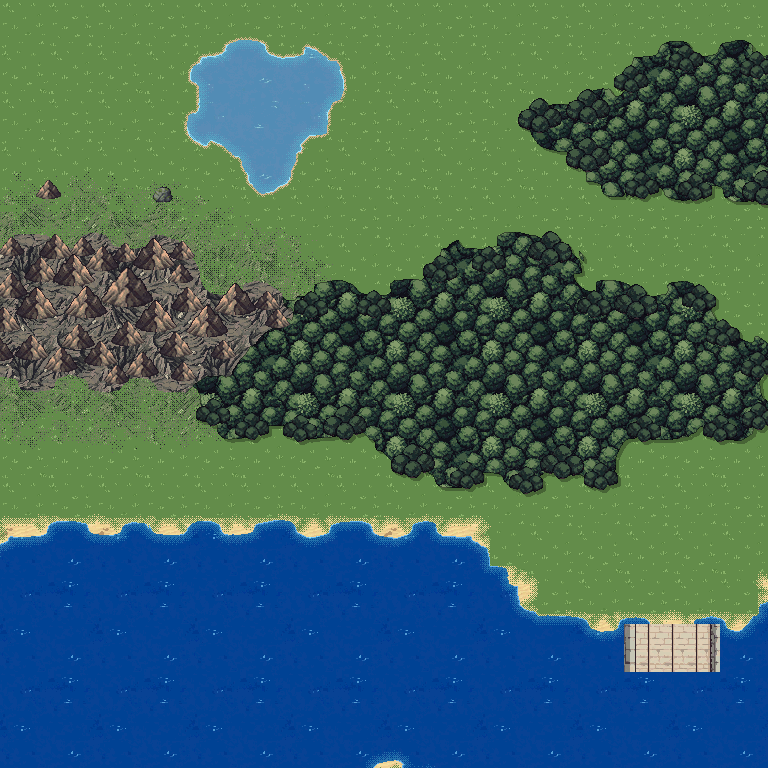
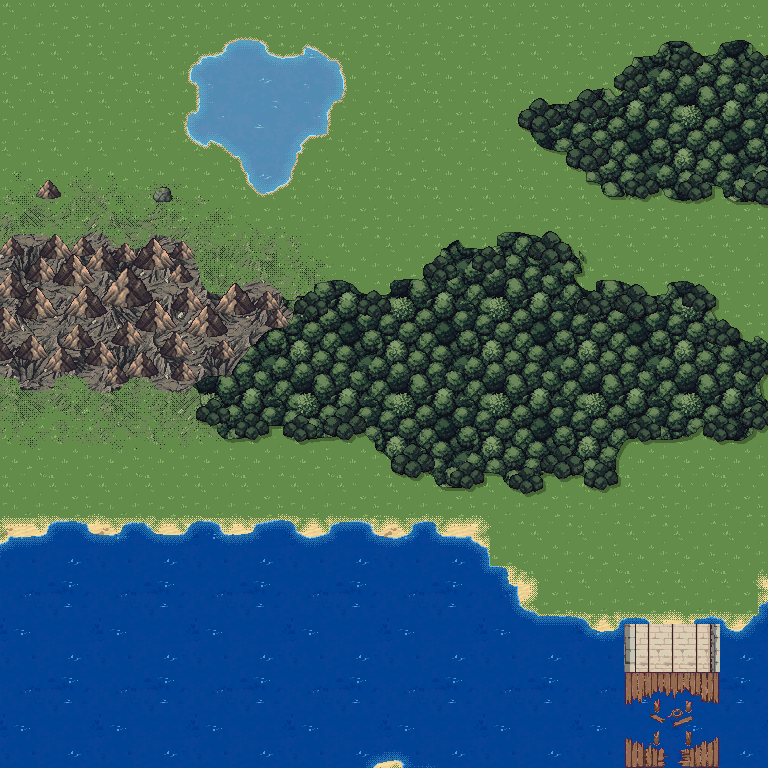
T6h art wiring: OW-9 broken-bridge debris (overworld/kit_grand bridge_gap, block false, on_water; gap stays water, BRIDGE_BUILT unset), OW-8 keeps temple_icon (fallback); CA-1 top-down stairwell (castle/kit_stairs_lib) on 1F, 2F and the tower; CA-7 gold heap (36,22), crown cushion (38,22), 2F war-ma

Changed region(s): [[0.8125, 0.875, 0.9375, 1.0]]

diff --git a/tests/data/castleLayout.test.ts b/tests/data/castleLayout.test.ts
@@ -129,15 +129,42 @@ describe('the castle rooms have a purpose (CA-7)', () => {
     expect(openRows.length).toBeGreaterThanOrEqual(2);
   });
 
-  it('the 2F guard room has armour stands, a weapon rack, a table and a guard', () => {
+  it('the 2F guard room has armour stands, a weapon rack, the war-map table and a guard', () => {
     const objs = source('cornelia-castle-2f').objects ?? [];
     const count = (part: string) => objs.filter((o) => (o.parts ?? []).flat().includes(part)
       && inRect(o, 33, 4, 41, 14)).length;
     expect(count('armor_stand')).toBeGreaterThanOrEqual(2);
     expect(count('weapon_rack')).toBeGreaterThanOrEqual(1);
-    expect(count('table')).toBeGreaterThanOrEqual(1);
+    expect(count('map_table_l')).toBe(1);                                // CA-7 (T6h): the war-map table
+    expect(objs.find((o) => (o.parts ?? []).flat().includes('map_table_l'))?.parts).toEqual([['map_table_l', 'map_table_r']]);
+    expect(count('table')).toBe(0);
     const guard = compiled('cornelia-castle-2f').npcs!.find((n) => n.sprite === 'guard' && inRect(n, 33, 6, 41, 14));
     expect(guard?.dialog.flatMap((d) => (typeof d === 'string' ? [d] : d.text)).join(' ')).toMatch(/tower/);
+  });
+
+  it('the treasury has the gold heap at (36, 22) and the crown on its cushion at (38, 22) (T6h)', () => {
+    const objs = source('cornelia-castle').objects ?? [];
+    const at = (part: string) => objs.filter((o) => (o.parts ?? []).flat().includes(part)).map((o) => [o.x, o.y]);
+    expect(at('gold_heap')).toEqual([[36, 22]]);
+    expect(at('crown_cushion')).toEqual([[38, 22]]);
+    expect(at('globe')).toEqual([[38, 12]]);                              // in the library
+    const col = new CollisionMap(f1);
+    for (const [x, y] of [[36, 22], [38, 22]]) expect(col.isWalkable(x, y, walk), `(${x}, ${y}) is solid`).toBe(false);
+    // the chests in front stay reachable from the treasury floor
+    for (const c of f1.npcs!.filter((n) => n.chestItem && inRect(n, 32, 19, 41, 30))) {
+      expect([[0, 1], [1, 0], [-1, 0]].some(([dx, dy]) => col.isWalkable(c.x + dx, c.y + dy, walk)), c.id).toBe(true);
+    }
+  });
+
+  it('every CA-7 prop placed in the castle is cut from the approved castle/stairs_lib sheet (no placeholder)', () => {
+    const approved = JSON.parse(readFileSync(join(root, 'assets-src/gen/approved/castle/stairs_lib.json'), 'utf-8')) as
+      { cells: Array<Array<string | null>> };
+    const cut = new Set(approved.cells.flat().filter((p): p is string => p !== null));
+    const props = ['map_table_l', 'map_table_r', 'gold_heap', 'crown_cushion', 'lectern', 'globe'];
+    for (const p of props) expect(cut.has(p), p).toBe(true);
+    const placed = FLOORS.flatMap((id) => (source(id).objects ?? []).flatMap((o) => (o.parts ?? []).flat()))
+      .filter((p): p is string => p !== null && props.includes(p));
+    expect(new Set(placed)).toEqual(new Set(props));
   });
 
   it('1F and 2F no longer share one carpet layout: the throne room runner is 4 wide, with a medallion', () => {

diff --git a/tests/data/overworldLayout.test.ts b/tests/data/overworldLayout.test.ts
@@ -135,6 +135,30 @@ describe('overworld layout (T3c)', () => {
     expect(reach(start, gateCells, rock).has(north)).toBe(true);
   });
 
+  it('OW-9: the broken-bridge debris lies over the gap as art only; the four gap cells stay water', () => {
+    const debris = source.objects.filter((o) => (o.parts ?? []).flat().some((p) => p?.startsWith('bridge_gap_')));
+    expect(debris.length).toBe(1);
+    const d = debris[0] as typeof debris[0] & { block?: boolean; on_water?: boolean };
+    expect(d.parts).toEqual([['bridge_gap_0_0', 'bridge_gap_0_1'], ['bridge_gap_1_0', 'bridge_gap_1_1']]);
+    expect(d.block).toBe(false);
+    expect(d.on_water).toBe(true);
+    const footprint = [0, 1].flatMap((j) => [0, 1].map((i): Cell => [d.x + i, d.y + j]));
+    expect(footprint.map(([x, y]) => key(x, y)).sort()).toEqual(gap.map(([x, y]) => key(x, y)).sort());
+    for (const [x, y] of footprint) {
+      expect(terrain(x, y), `(${x}, ${y}) is water`).toBe(WATER);
+      expect(col.isWalkable(x, y, walking)).toBe(false);
+    }
+    // the parts are cut from the approved overworld/kit_grand sheet; temple_grand fell back (OW-8 keeps temple_icon)
+    const grand = JSON.parse(readFileSync(join(root, 'assets-src/gen/approved/overworld/grand.json'), 'utf-8')) as
+      { cells: Array<Array<string | null>>; metrics: { skipped: string[] } };
+    for (const p of d.parts!.flat()) expect(grand.cells.flat()).toContain(p);
+    expect(grand.metrics.skipped).toContain('temple_grand');
+    const temple = source.objects.find((o) => o.type === 'prefab') as { prefab?: string } | undefined;
+    expect(temple?.prefab).toBe('temple_icon');
+    // the gates are unchanged: both south-stub cells still need BRIDGE_BUILT
+    expect(gates.map((g) => g.requiredFlag)).toEqual(['BRIDGE_BUILT', 'BRIDGE_BUILT']);
+  });
+
   it('OW-14: no walkable cell on the map edge', () => {
     for (let x = 0; x < map.width; x++) {
       for (const y of [0, map.height - 1]) expect(col.isWalkable(x, y, walking), `(${x},${y})`).toBe(false);
@@ -313,6 +337,12 @@ describe('overworld battle backgrounds (BA-12)', () => {
     }
     const zoneIds = new Set((map.encounterZones ?? []).map((z) => z.id));
     for (const id of Object.keys(bg.zones ?? {})) expect(zoneIds.has(id), `zone ${id}`).toBe(true);
+  });
+
+  it('the temple approach fights in the dark forest and the east pocket in the ruined forest (T6h)', () => {
+    expect(bg.zones?.temple_approach?.default).toBe('dark_forest');
+    expect(bg.zones?.east_pocket?.default).toBe('ruined_forest');
+    for (const z of ['temple_approach', 'east_pocket']) expect(bg.zones?.[z]?.terrain?.desert, z).toBe('shoreline');
   });
 
   it('beach sand compiles to Desert, and Desert battles use the shoreline background', () => {

diff --git a/tests/data/castleStairs.test.ts b/tests/data/castleStairs.test.ts
@@ -17,7 +17,8 @@ const castleSources = readdirSync(join(root, 'assets-src/maps'))
   .filter((f) => f.startsWith('cornelia-castle') && f.endsWith('.yaml'))
   .map((f) => parse(readFileSync(join(root, 'assets-src/maps', f), 'utf-8')) as Source);
 const compiled = (id: string) => parse(readFileSync(join(root, 'assets/maps/ai', `${id}.yaml`), 'utf-8')) as MapData;
-const isStairwell = (o: Deco) => o.type === 'deco' && (o.parts ?? []).flat().some((p) => p?.startsWith('stairs_down_'));
+const STAIR_PARTS = /^(stairs_down|stairwell)_\d_\d$/;
+const isStairwell = (o: Deco) => o.type === 'deco' && (o.parts ?? []).flat().some((p) => STAIR_PARTS.test(p ?? ''));
 const stairwells = castleSources.flatMap((s) => (s.objects ?? []).filter(isStairwell).map((o) => ({ id: s.id, o })));
 const walk = new WalkingMode();
 
@@ -50,6 +51,16 @@ describe('castle stairwells (CA-1)', () => {
       expect(col.isWalkable(o.x, o.y + 1, walk) || col.isWalkable(o.x + 1, o.y + 1, walk)).toBe(false);
       const above = Object.values(map.entrances ?? {}).some(([x, y]) => y === o.y - 1 && (x === o.x || x === o.x + 1));
       expect(above, `${id}: an entrance right above the stairwell`).toBe(true);
+    }
+  });
+
+  it('every stairwell uses the top-down `stairwell_*` art (T6h), not the oblique `stairs_down_*`', () => {
+    const approved = JSON.parse(readFileSync(join(root, 'assets-src/gen/approved/castle/stairs_lib.json'), 'utf-8')) as
+      { cells: Array<Array<string | null>> };
+    const cut = new Set(approved.cells.flat());
+    for (const { id, o } of stairwells) {
+      expect(o.parts, id).toEqual([['stairwell_0_0', 'stairwell_0_1'], ['stairwell_1_0', 'stairwell_1_1']]);
+      for (const p of o.parts!.flat()) expect(cut.has(p), `${id}: ${p} is cut from castle/stairs_lib`).toBe(true);
     }
   });
 });

diff --git a/tests/data/assetCoverage.test.ts b/tests/data/assetCoverage.test.ts
@@ -119,6 +119,14 @@ describe('asset coverage (run `npm run assets` after adding content)', () => {
       }
     });
 
+    it.runIf(present)('the T6 townsfolk (vendor_f, farmer, burgher) are on the cornelia map and drawn from the 2x atlas', () => {
+      const cornelia = (readYaml<{ npcs?: Array<{ sprite: string }> }>('maps/ai/cornelia.yaml').npcs ?? []).map((n) => n.sprite);
+      for (const sp of ['vendor_f', 'farmer', 'burgher']) {
+        expect(cornelia, sp).toContain(sp);
+        expect(meta!.sheets[sp], `${sp} in characters-ai.json`).toBeDefined();
+      }
+    });
+
     it.runIf(present)('only lists known classes or NPC sprites, every block inside the image', () => {
       // NPC sprite names are the keys of the legacy character atlas that are not classes
       const compiledNpcSprites = readdirSync(join(assets, 'maps/ai'))
@@ -206,6 +214,10 @@ describe('asset coverage (run `npm run assets` after adding content)', () => {
 
     it('the act-1 temple and zone ids are referenced', () => {
       expect(referenced).toEqual(expect.arrayContaining(['temple', 'dark_forest', 'ruined_forest', 'shoreline']));
+    });
+
+    it('the overworld zone backdrops (T6h) are referenced by a map table, not only listed here', () => {
+      expect(mapIds).toEqual(expect.arrayContaining(['dark_forest', 'ruined_forest', 'shoreline']));
     });
 
     it.each(referenced)('background "%s" is a staged id with a 1920x1080 webp', (id) => {

diff --git a/assets-src/tools/layouts/overworld.py b/assets-src/tools/layouts/overworld.py
@@ -23,15 +23,15 @@ import numpy as np
 
 sys.path.insert(0, str(Path(__file__).resolve().parent))
 from common import Grid, write_map  # noqa: E402
-from overworld_consts import (ARRIVE, BEACHES, BOULDERS, BRIDGE_FOOT, BX, CX, CY, E_WARP, FOREST_ADD, FOREST_CUT,  # noqa: E402
-                              FOREST_ZONES, GULF, H, HEADER, JETTY, LAND, MOUNTAIN_BLOBS, N_APPROACH, N_STUB, N_WARP,
+from overworld_consts import (ARRIVE, BEACHES, BOULDERS, BRIDGE_FOOT, BROKEN_BRIDGE, BX, CX, CY, E_WARP,  # noqa: E402
+                              FOREST_ADD, FOREST_CUT, FOREST_ZONES, GULF, H, HEADER, JETTY, LAND, MOUNTAIN_BLOBS, N_APPROACH, N_STUB, N_WARP,
                               NORTH_LAKE, NORTH_SHORE, PONDS, RIVER, ROADS, RX, RY, S_STUB, S_WARP, SEED, SHORE_LAND,
                               SHORE_SEA, SOUND, SOUTH_BAY, SPINE, SPUR, STREAM, TARN, TEMPLE_DOOR, TEMPLE_GRASS,
                               TEMPLE_ROCK, TOMB, TOMB_END, TOMB_OBJECTS, TOMB_ROCK, TX, TY, UNDER_TOWN, W, W_WARP)
 from overworld_grid import (bfs, clear_disc, clear_rect, extend_to_sea, fill_unreachable, near, tidy_blobs,  # noqa: E402
                             tidy_land, walk_grid)
 from overworld_noise import blob, fbm, polyline_distance, signed_distance  # noqa: E402
-from overworld_zones import FIELDS, encounter_zones  # noqa: E402
+from overworld_zones import FIELDS, ZONE_BACKDROPS, encounter_zones  # noqa: E402
 
 
 def build() -> tuple[Grid, list[str]]:
@@ -180,6 +180,7 @@ def objects() -> list[dict]:
         {"type": "prefab", "prefab": "temple_icon", "name": "temple", "x": TX, "y": TY, "w": 2, "h": 2, "door": 1,
          "ridge_rows": 0, "collide": "alpha", "enter": {"map": "temple-of-fiends", "entrance": "entry"}},
         *(dict(o) for o in TOMB_OBJECTS),          # Erdrick's tomb
+        *(dict(o) for o in BROKEN_BRIDGE),         # OW-9: debris in the north bridge's gap (art only)
     ]
     for x, y in BOULDERS:          # a few boulders on open grass, never on a road
         objs.append({"type": "deco", "parts": [["boulder"]], "x": x, "y": y, "collide": "alpha"})
@@ -223,7 +224,8 @@ def main() -> None:
         "encounterZones": encounter_zones(g),
         # BA-12: sand compiles to TerrainType.Desert, so the beaches are keyed `desert` (keys are TerrainType names)
         "battleBackgrounds": {"default": "grassland", "terrain": {"forest": "forest", "desert": "shoreline",
-                                                                  "swamp": "swamp", "water": "ocean", "river": "river"}},
+                                                                  "swamp": "swamp", "water": "ocean", "river": "river"},
+                              "zones": ZONE_BACKDROPS},
         # OW-10 stays open: the ship waits off the jetty, the canoe on the east river
         "vehicles": [{"type": "ship", "x": JETTY[-1][0], "y": JETTY[-1][1] + 1, "requiredFlag": "BIKKE_DEFEATED"},
                      {"type": "canoe", "x": canoe[0], "y": canoe[1], "requiredFlag": "EARTH_CAVE_COMPLETE"}],

diff --git a/assets-src/tools/layouts/castle.py b/assets-src/tools/layouts/castle.py
@@ -74,7 +74,7 @@ for (x, y) in [(14, 18), (29, 18)]:
 for x in (12, 13, 15, 16, 17, 26, 27, 28, 30, 31):
     f1.deco([["bookshelf_top"], ["bookshelf_bottom"]], x, 2, on_wall=True)
 for x in (19, 24):
-    f1.deco([["lectern"]], x, 3)             # castle/kit_stairs_lib (a kit.py placeholder until it is approved)
+    f1.deco([["lectern"]], x, 3)             # castle/kit_stairs_lib
 for x in (21, 22):
     f1.deco([["stone_bench"]], x, 3)
 for x in (14, 18, 25, 29):
@@ -112,7 +112,7 @@ for (x, y) in [(35, 9), (38, 9), (35, 12)]:
     f1.deco([["desk"]], x, y)
 f1.deco([["orb_white"]], 41, 14)
 f1.deco([["plant"]], 32, 14)
-f1.deco([["globe"]], 38, 12)                 # castle/kit_stairs_lib (placeholder until approved)
+f1.deco([["globe"]], 38, 12)                 # castle/kit_stairs_lib
 # treasury, with the stair down to the cellar
 f1.wall([["banner"]], 34, 17)
 f1.wall([["torch"]], 39, 17)
@@ -125,7 +125,9 @@ f1.wall([["weapon_rack"]], 35, 17)          # not 37: that cell is in the librar
 f1.wall([["weapon_rack"]], 40, 17)
 for (x, y) in [(32, 21), (32, 22)]:          # CA-4: clear of the doorway from the hall at (32, 25-26)
     f1.objects.append({"type": "barrel", "x": x, "y": y})
-# CA-7: (36, 22) and (38, 22) are kept free for the gold heap and the crown (T6h, castle/kit_stairs_lib)
+# CA-7: the gold heap and the crown on its cushion, between the two chests (castle/kit_stairs_lib)
+f1.deco([["gold_heap"]], 36, 22)
+f1.deco([["crown_cushion"]], 38, 22)
 
 f1.npcs += [
     {"id": "hall_guard_w", "sprite": "guard", "x": 19, "y": 30, "dialog": ["Welcome to Cornelia Castle.",
@@ -227,7 +229,7 @@ for x in (2, 3, 4):
 f2.deco([["desk"]], 5, 22)
 f2.wall([["tapestry"]], 5, 16)
 f2.deco([["armor_stand"]], 10, 25)
-# the guard room, with the tower stair (CA-7); the table becomes the war-map table in T6h
+# the guard room, with the tower stair and the war-map table (CA-7)
 f2.stairs_up(37, 4, "cornelia-castle-tower", "stairs")
 f2.wall([["banner"]], 35, 4)
 f2.wall([["banner"]], 40, 4)
@@ -237,8 +239,7 @@ f2.statue(34, 6)
 f2.statue(41, 6)
 for y in (8, 10, 12):
     f2.deco([["armor_stand"]], 41, y)
-for x in (37, 38):
-    f2.deco([["table"]], x, 12)
+f2.deco([["map_table_l", "map_table_r"]], 37, 12)   # castle/kit_stairs_lib
 # chapel
 f2.deco([["orb_white"]], 36, 18)
 f2.deco([["orb_white"]], 38, 18)

diff --git a/assets-src/tools/layouts/overworld_consts.py b/assets-src/tools/layouts/overworld_consts.py
@@ -107,6 +107,13 @@ TOMB_OBJECTS = [
     {"type": "flowers", "x": TOMB[0] + 2, "y": TOMB[1] + 1},
 ]
 
+# OW-9: the snapped ends, pilings and loose planks of the north bridge (overworld/kit_grand `bridge_gap`), drawn over
+# the two open-water gap rows. Art only: the cells stay ocean in collision and BRIDGE_BUILT stays unset in act 1.
+# FIX_PLAN T6 note: the future bridge cutscene needs a built variant of the span (the gap cells become bridge in
+# collision and art, e.g. a flag-gated map variant), and that variant must drop BROKEN_BRIDGE.
+BROKEN_BRIDGE = [{"type": "deco", "parts": [["bridge_gap_0_0", "bridge_gap_0_1"], ["bridge_gap_1_0", "bridge_gap_1_1"]],
+                  "name": "broken_bridge", "x": BX, "y": N_STUB + 1, "block": False, "on_water": True}]
+
 HEADER = """GENERATED by assets-src/tools/layouts/overworld.py - edit the script, not this file.
 Act-1 overworld (original layout): the Cornelia peninsula hangs south-west from the mainland; the sound, the broken
 north bridge at its strait, the spine range sealing the isthmus, the east river from its tarn, Erdrick's tomb.

diff --git a/assets-src/tools/layouts/common.py b/assets-src/tools/layouts/common.py
@@ -97,8 +97,9 @@ class Room:
 
     def stairs_down(self, x, y, to_map, to_entrance):
         """A 2x2 stairwell in the floor; the first step onto its top row leads down (CA-1: the player never walks
-        across the drawn pit), and its lower row is solid."""
-        self.deco([["stairs_down_0_0", "stairs_down_0_1"], ["stairs_down_1_0", "stairs_down_1_1"]], x, y,
+        across the drawn pit), and its lower row is solid. The art is castle/kit_stairs_lib's top-down `stairwell`
+        (CA-1, T6h); the old oblique `stairs_down_*` parts stay in castle/furnish but are no longer placed."""
+        self.deco([["stairwell_0_0", "stairwell_0_1"], ["stairwell_1_0", "stairwell_1_1"]], x, y,
                   walkable_rows=[0])
         self.transitions += [{"x": x + i, "y": y, "targetMap": to_map, "targetEntrance": to_entrance} for i in (0, 1)]
 

diff --git a/assets-src/tools/layouts/overworld_zones.py b/assets-src/tools/layouts/overworld_zones.py
@@ -23,6 +23,11 @@ TEMPLE_APPROACH = [{"groups": [_g("gr_imp", 2, 4)], "weight": 3},
 EAST_POCKET = [{"groups": [_g("wolf", 3, 5)], "weight": 3},
                {"groups": [_g("gr_imp", 3, 5)], "weight": 2},
                {"groups": [_g("gr_wolf", 1), _g("wolf", 0, 2)], "weight": 1}]
+# battle backgrounds per zone (BA-12, T6h): the temple approach fights in the dark forest, the east pocket in the
+# ruined forest; a zone table wins over the map's terrain table, so beaches and water keep their own backdrops
+_WET = {"desert": "shoreline", "water": "ocean", "river": "river"}
+ZONE_BACKDROPS = {"temple_approach": {"default": "dark_forest", "terrain": dict(_WET)},
+                  "east_pocket": {"default": "ruined_forest", "terrain": dict(_WET)}}
 
 
 def row_rects(cells: set[tuple[int, int]]) -> list[list[int]]:
